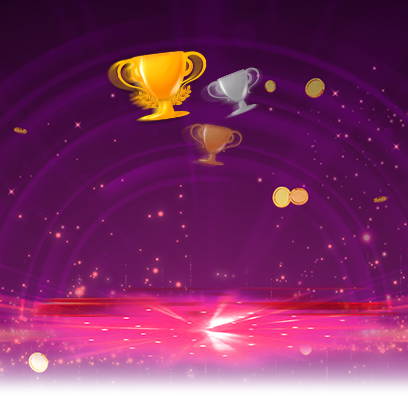
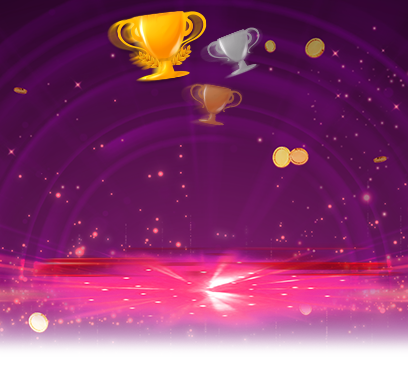
feat: update UI for promotion detail

diff --git a/public/static/css/promotion-details.scss b/public/static/css/promotion-details.scss
@@ -1,11 +1,12 @@
 .banner {
     position: relative;
-    background: url(../images/banner/background-banner.png) no-repeat center center;
+    background: url(../images/banner/mobile/background-banner.png) no-repeat center;
+    height: 36.8rem;
     width: 100%;
-    height: 41rem;
 
     @media screen and (min-width: 409px) {
         height: calc(41rem * 0.6);
+        background: url(../images/banner/background-banner.png) no-repeat center center;
     }
 
     @media screen and (min-width: 577px) {
@@ -21,7 +22,7 @@
     }
 
     @media screen and (min-width: 1200px) {
-        transform: none;
+        height: 41rem;
     }
 
     .center {
@@ -117,10 +118,6 @@
 
 @media screen and (max-width: 408px) {
     .banner {
-        background: url(../images/banner/mobile/background-banner.png) no-repeat center;
-        height: 40.8rem;
-        width: 100%;
-
         .dealer {
             top: -21px;
             margin-left: -141px;
@@ -150,49 +147,37 @@
 }
 
 .tournament-container {
-    display: grid;
-    place-items: center;
-    width: 140rem;
-    background-size: cover;
-    background-attachment: fixed;
-    background-image: url(../images/home_bg.jpg);
+    padding-top: 55px;
 
-    .content {
-        max-width: 120rem;
+    @media screen and (min-width: 576px) {
+        padding-top: 0;
     }
 
-    .header {
-        width: 100%;
-        position: relative;
-        display: inline-block;
+    .content {
+        top: calc(368px + 55px);
 
-        img {
-            display: block;
-            width: 100%;
-            height: auto;
+        @media screen and (min-width: 409px) {
+            top: calc(41rem * 0.6 + 55px);
         }
 
-        .text-overlay {
-            text-transform: uppercase;
-            position: absolute;
-            top: 80%;
-            left: 50%;
-            transform: translate(-50%, -50%);
-            color: white;
-            text-shadow: 2px 2px 4px rgba(0, 0, 0, 0.5);
-            padding: 10px 20px;
-            border-radius: 10px;
+        @media screen and (min-width: 577px) {
+            top: calc(41rem * 0.7);
+        }
 
-            font-size: 2.2rem;
+        @media screen and (min-width: 768px) {
+            top: calc(41rem * 0.8);
+        }
 
-            @media screen and (min-width: 768px) {
-                font-size: 3rem;
-            }
+        @media screen and (min-width: 992px) {
+            top: calc(41rem * 0.9);
+        }
+
+        @media screen and (min-width: 1200px) {
+            top: 41rem;
         }
     }
 
     .info-container {
-        max-width: 120rem;
         background-color: var(--color-secondary);
         margin: 3rem;
         color: var(--color-primary-text);

diff --git a/views/promotion-details/prize.tsx b/views/promotion-details/prize.tsx
@@ -1,46 +1,49 @@
-import React from 'react';
 import '../helpers/string-helper';
-import '../../public/static/css/style.scss';
-import { useTranslate } from "@tolgee/react";
+
+import { useTranslate } from '@tolgee/react';
+import React from 'react';
+
 import { formatNumberWithComma } from '../helpers/common-helper';
 
 const getPrizeDescription = ({ prize }) => {
-  const { t } = useTranslate();
+    const { t } = useTranslate();
 
-  switch (prize.from) {
-    case 1:
-      return {
-        text: t('first_place'),
-        image: "first-prize.png"
-      };
-    case 2:
-      return {
-        text: t('second_place'),
-        image: "second-prize.png"
-      }
-    case 3:
-      return {
-        text: t('third_place'),
-        image: "third-prize.png"
-      }
-    default:
-      return {
-        text: t('other_places', { from: prize?.from, to: prize?.to }).replaceTolgeeFormat(),
-        image: "other-prize.png"
-      }
-  }
-}
+    switch (prize.from) {
+        case 1:
+            return {
+                text: t('first_place'),
+                image: 'first-prize.png',
+            };
+        case 2:
+            return {
+                text: t('second_place'),
+                image: 'second-prize.png',
+            };
+        case 3:
+            return {
+                text: t('third_place'),
+                image: 'third-prize.png',
+            };
+        default:
+            return {
+                text: t('other_places', { from: prize?.from, to: prize?.to }).replaceTolgeeFormat(),
+                image: 'other-prize.png',
+            };
+    }
+};
 
 const Prize = ({ prize }) => {
-  const { text, image } = getPrizeDescription({ prize });
-  const imagePath = 'static/images';
-  return (<div className="info-item  ">
-    <img src={`${imagePath}/${image}`} alt="" />
-    <div>
-      <div className='item-description-header'>{text}</div>
-      <p className='item-description-content'>{formatNumberWithComma(prize?.value)}</p>
-    </div>
-  </div>);
-}
+    const { text, image } = getPrizeDescription({ prize });
+    const imagePath = 'static/images';
+    return (
+        <div className="info-item  ">
+            <img src={`${imagePath}/${image}`} alt="" />
+            <div>
+                <div className="item-description-header">{text}</div>
+                <p className="item-description-content">{formatNumberWithComma(prize?.value)}</p>
+            </div>
+        </div>
+    );
+};
 
 export default Prize;

diff --git a/views/promotion-details/index.tsx b/views/promotion-details/index.tsx
@@ -55,22 +55,21 @@ const PromotionDetail = ({ handleLeaderBoard, promotionId }) => {
     ];
 
     return (
-        <div className="tournament-container">
-            <div className="header">
-                <div className="banner">
-                    <div className="center">
-                        <div className="dealer"></div>
-                        <div className="text-event"></div>
-                        <div className="text-slogan"></div>
-                        <div className="winning-prize">
-                            <div className="left"></div>
-                            <div className="middle">{formatNumberWithComma(data?.winningPrizes[0]?.value)}</div>
-                            <div className="right"></div>
-                        </div>
+        <div className="promotion-container tournament-container">
+            <div className="banner">
+                <div className="center">
+                    <div className="dealer"></div>
+                    <div className="text-event"></div>
+                    <div className="text-slogan"></div>
+                    <div className="winning-prize">
+                        <div className="left"></div>
+                        <div className="middle">{formatNumberWithComma(data?.winningPrizes[0]?.value)}</div>
+                        <div className="right"></div>
                     </div>
                 </div>
             </div>
-            <div className="content">
+            <div className="main-content content">
+                <div className="page-title"></div>
                 <div className="info-container promotion">
                     <div className="title">{t('title_promotion_info')}</div>
                     <div className="info-list">

diff --git a/views/index.tsx b/views/index.tsx
@@ -1,3 +1,5 @@
+import '../public/static/css/style.scss';
+
 import { FormatIcu } from '@tolgee/format-icu';
 import { BackendFetch, Tolgee, TolgeeProvider } from '@tolgee/react';
 import { InContextTools } from '@tolgee/web/tools';
@@ -86,7 +88,11 @@ if (window.AppInitialState?.results.isSuccessful) {
 
         return (
             <>
-                {!appState.isShowPromotions && <div onClick={handleBackButton} className="back-icon"></div>}
+                {!appState.isShowPromotions && (
+                    <div className="top-menu">
+                        <div onClick={handleBackButton} className="back-icon"></div>
+                    </div>
+                )}
                 {result}
             </>
         );

diff --git a/public/static/css/style.scss b/public/static/css/style.scss
@@ -104,10 +104,25 @@ p {
     min-height: 100vh;
 }
 
+.top-menu {
+    position: fixed;
+    background-color: #463233;
+    width: 100%;
+    left: 0;
+    top: 0;
+    height: 55px;
+    z-index: 100;
+
+    @media screen and (min-width: 576px) {
+        top: 10px;
+        width: auto;
+    }
+}
+
 .back-icon {
     position: absolute;
-    top: 20px;
-    left: 3.6rem;
+    top: 12px;
+    left: 2rem;
     width: 44px;
     height: 32px;
     cursor: pointer;
@@ -117,6 +132,7 @@ p {
 
     @media screen and (max-width: 404px) {
         top: 10px;
+        left: 4rem;
     }
 
     &::before {
